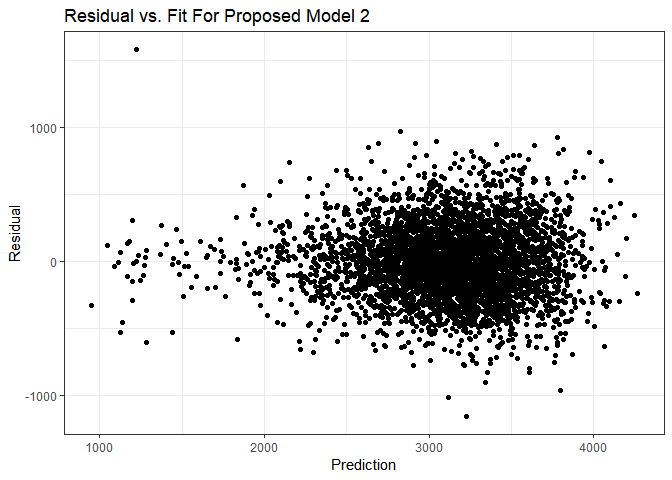
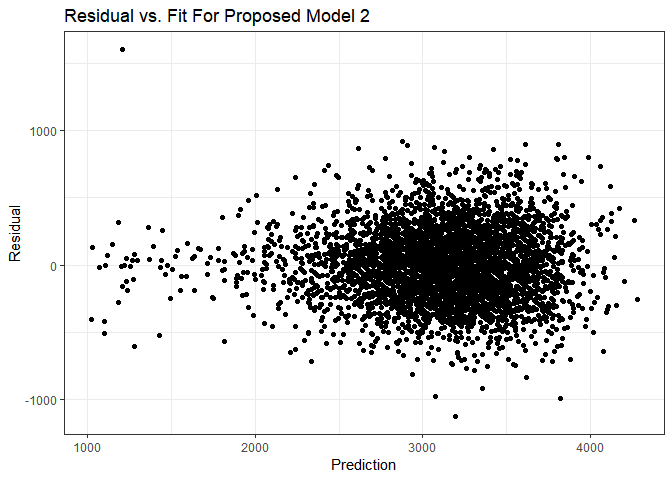
minor text change, change some numeric variables to factor variables.

diff --git a/p8105_hw6_st3117.md b/p8105_hw6_st3117.md
@@ -56,6 +56,8 @@ baltimore_logistic %>%
 |------:|--------:|------:|---------:|----------:|
 |  -0.82|        0|  0.441|     0.313|       0.62|
 
+The odds of solving homicides in Baltimore among non-white is 0.441 times the odds comparing to white. The true odds ratio lies between 0.313 and 0.62.
+
 Problem 1\_4 Compute Odds Ratio and 95% CI for solving homicides in All Cities
 ------------------------------------------------------------------------------
 
@@ -124,6 +126,13 @@ Problem 2\_1 Load 'Children Birth Weight' Data
 children = 
   read_csv(file = "./data/birthweight.csv")
 
+children =
+  children %>% 
+  mutate(babysex = as.factor(babysex),
+         frace = as.factor(frace),
+         malform = as.factor(malform),
+         mrace = as.factor(mrace))
+
 skimr::skim(children)
 ```
 
@@ -131,43 +140,47 @@ skimr::skim(children)
     ##  n obs: 4342 
     ##  n variables: 20 
     ## 
+    ## -- Variable type:factor -----------------------------------------------------------------------------------------------
+    ##  variable missing complete    n n_unique                      top_counts
+    ##   babysex       0     4342 4342        2         1: 2230, 2: 2112, NA: 0
+    ##     frace       0     4342 4342        5 1: 2123, 2: 1911, 4: 248, 3: 46
+    ##   malform       0     4342 4342        2           0: 4327, 1: 15, NA: 0
+    ##     mrace       0     4342 4342        4 1: 2147, 2: 1909, 4: 243, 3: 43
+    ##  ordered
+    ##    FALSE
+    ##    FALSE
+    ##    FALSE
+    ##    FALSE
+    ## 
     ## -- Variable type:integer ----------------------------------------------------------------------------------------------
-    ##  variable missing complete    n      mean      sd  p0  p25    p50  p75
-    ##   babysex       0     4342 4342    1.49     0.5     1    1    1      2
-    ##     bhead       0     4342 4342   33.65     1.62   21   33   34     35
-    ##   blength       0     4342 4342   49.75     2.72   20   48   50     51
-    ##       bwt       0     4342 4342 3114.4    512.15  595 2807 3132.5 3459
-    ##     delwt       0     4342 4342  145.57    22.21   86  131  143    157
-    ##   fincome       0     4342 4342   44.11    25.98    0   25   35     65
-    ##     frace       0     4342 4342    1.66     0.85    1    1    2      2
-    ##   malform       0     4342 4342    0.0035   0.059   0    0    0      0
-    ##  menarche       0     4342 4342   12.51     1.48    0   12   12     13
-    ##   mheight       0     4342 4342   63.49     2.66   48   62   63     65
-    ##    momage       0     4342 4342   20.3      3.88   12   18   20     22
-    ##     mrace       0     4342 4342    1.63     0.77    1    1    2      2
-    ##    parity       0     4342 4342    0.0023   0.1     0    0    0      0
-    ##   pnumlbw       0     4342 4342    0        0       0    0    0      0
-    ##   pnumsga       0     4342 4342    0        0       0    0    0      0
-    ##      ppwt       0     4342 4342  123.49    20.16   70  110  120    134
-    ##    wtgain       0     4342 4342   22.08    10.94  -46   15   22     28
-    ##  p100     hist
-    ##     2 <U+2587><U+2581><U+2581><U+2581><U+2581><U+2581><U+2581><U+2587>
-    ##    41 <U+2581><U+2581><U+2581><U+2581><U+2585><U+2587><U+2581><U+2581>
-    ##    63 <U+2581><U+2581><U+2581><U+2581><U+2581><U+2587><U+2581><U+2581>
-    ##  4791 <U+2581><U+2581><U+2581><U+2583><U+2587><U+2587><U+2582><U+2581>
-    ##   334 <U+2581><U+2587><U+2585><U+2581><U+2581><U+2581><U+2581><U+2581>
-    ##    96 <U+2581><U+2582><U+2587><U+2582><U+2582><U+2582><U+2581><U+2583>
-    ##     8 <U+2587><U+2587><U+2581><U+2581><U+2581><U+2581><U+2581><U+2581>
-    ##     1 <U+2587><U+2581><U+2581><U+2581><U+2581><U+2581><U+2581><U+2581>
-    ##    19 <U+2581><U+2581><U+2581><U+2581><U+2582><U+2587><U+2581><U+2581>
-    ##    77 <U+2581><U+2581><U+2581><U+2585><U+2587><U+2582><U+2581><U+2581>
-    ##    44 <U+2582><U+2587><U+2585><U+2582><U+2581><U+2581><U+2581><U+2581>
-    ##     4 <U+2587><U+2581><U+2587><U+2581><U+2581><U+2581><U+2581><U+2581>
-    ##     6 <U+2587><U+2581><U+2581><U+2581><U+2581><U+2581><U+2581><U+2581>
-    ##     0 <U+2581><U+2581><U+2581><U+2587><U+2581><U+2581><U+2581><U+2581>
-    ##     0 <U+2581><U+2581><U+2581><U+2587><U+2581><U+2581><U+2581><U+2581>
-    ##   287 <U+2581><U+2587><U+2586><U+2581><U+2581><U+2581><U+2581><U+2581>
-    ##    89 <U+2581><U+2581><U+2581><U+2587><U+2587><U+2581><U+2581><U+2581>
+    ##  variable missing complete    n      mean     sd  p0  p25    p50  p75 p100
+    ##     bhead       0     4342 4342   33.65     1.62  21   33   34     35   41
+    ##   blength       0     4342 4342   49.75     2.72  20   48   50     51   63
+    ##       bwt       0     4342 4342 3114.4    512.15 595 2807 3132.5 3459 4791
+    ##     delwt       0     4342 4342  145.57    22.21  86  131  143    157  334
+    ##   fincome       0     4342 4342   44.11    25.98   0   25   35     65   96
+    ##  menarche       0     4342 4342   12.51     1.48   0   12   12     13   19
+    ##   mheight       0     4342 4342   63.49     2.66  48   62   63     65   77
+    ##    momage       0     4342 4342   20.3      3.88  12   18   20     22   44
+    ##    parity       0     4342 4342    0.0023   0.1    0    0    0      0    6
+    ##   pnumlbw       0     4342 4342    0        0      0    0    0      0    0
+    ##   pnumsga       0     4342 4342    0        0      0    0    0      0    0
+    ##      ppwt       0     4342 4342  123.49    20.16  70  110  120    134  287
+    ##    wtgain       0     4342 4342   22.08    10.94 -46   15   22     28   89
+    ##      hist
+    ##  <U+2581><U+2581><U+2581><U+2581><U+2585><U+2587><U+2581><U+2581>
+    ##  <U+2581><U+2581><U+2581><U+2581><U+2581><U+2587><U+2581><U+2581>
+    ##  <U+2581><U+2581><U+2581><U+2583><U+2587><U+2587><U+2582><U+2581>
+    ##  <U+2581><U+2587><U+2585><U+2581><U+2581><U+2581><U+2581><U+2581>
+    ##  <U+2581><U+2582><U+2587><U+2582><U+2582><U+2582><U+2581><U+2583>
+    ##  <U+2581><U+2581><U+2581><U+2581><U+2582><U+2587><U+2581><U+2581>
+    ##  <U+2581><U+2581><U+2581><U+2585><U+2587><U+2582><U+2581><U+2581>
+    ##  <U+2582><U+2587><U+2585><U+2582><U+2581><U+2581><U+2581><U+2581>
+    ##  <U+2587><U+2581><U+2581><U+2581><U+2581><U+2581><U+2581><U+2581>
+    ##  <U+2581><U+2581><U+2581><U+2587><U+2581><U+2581><U+2581><U+2581>
+    ##  <U+2581><U+2581><U+2581><U+2587><U+2581><U+2581><U+2581><U+2581>
+    ##  <U+2581><U+2587><U+2586><U+2581><U+2581><U+2581><U+2581><U+2581>
+    ##  <U+2581><U+2581><U+2581><U+2587><U+2587><U+2581><U+2581><U+2581>
     ## 
     ## -- Variable type:numeric ----------------------------------------------------------------------------------------------
     ##  variable missing complete    n  mean   sd    p0   p25   p50   p75 p100
@@ -200,27 +213,27 @@ stepwise %>%
 
 | term        |   estimate|  std.error|  statistic|  p.value|
 |:------------|----------:|----------:|----------:|--------:|
-| (Intercept) |  -5901.447|    109.469|    -53.910|    0.000|
-| bhead       |    134.474|      3.468|     38.770|    0.000|
-| blength     |     76.389|      2.037|     37.492|    0.000|
-| mrace       |    -53.699|      6.007|     -8.939|    0.000|
-| delwt       |      3.957|      0.398|      9.930|    0.000|
-| gaweeks     |     12.029|      1.480|      8.126|    0.000|
-| smoken      |     -3.716|      0.581|     -6.391|    0.000|
-| ppbmi       |     -7.771|      2.618|     -2.968|    0.003|
-| fincome     |      0.662|      0.177|      3.733|    0.000|
-| babysex     |     32.296|      8.546|      3.779|    0.000|
-| momage      |      3.456|      1.192|      2.899|    0.004|
-| ppwt        |     -1.482|      0.579|     -2.560|    0.010|
-| parity      |     89.640|     40.913|      2.191|    0.029|
-| menarche    |     -4.326|      2.922|     -1.480|    0.139|
+| (Intercept) |  -5683.316|    101.338|    -56.083|    0.000|
+| bhead       |    130.839|      3.447|     37.958|    0.000|
+| blength     |     74.978|      2.019|     37.137|    0.000|
+| mrace2      |   -138.830|      9.908|    -14.012|    0.000|
+| mrace3      |    -76.349|     42.317|     -1.804|    0.071|
+| mrace4      |   -101.778|     19.291|     -5.276|    0.000|
+| delwt       |      4.109|      0.392|     10.478|    0.000|
+| gaweeks     |     11.581|      1.462|      7.920|    0.000|
+| smoken      |     -4.844|      0.586|     -8.272|    0.000|
+| ppbmi       |     -9.222|      2.577|     -3.578|    0.000|
+| babysex2    |     28.557|      8.456|      3.377|    0.001|
+| parity      |     95.895|     40.339|      2.377|    0.017|
+| ppwt        |     -1.068|      0.568|     -1.881|    0.060|
+| fincome     |      0.323|      0.175|      1.849|    0.065|
 
 ``` r
 proposed_model1 = lm(bwt ~ bhead + blength + babysex + delwt + mrace + gaweeks, data = children)
 proposed_model2 = mgcv::gam(bwt ~ s(bhead) + s(blength) + babysex + s(delwt) + mrace +s(gaweeks), data = children)
 ```
 
-Step-wise selection is a data-driven model-building process, by performing it, we got 13 significant variables. By simplily searching the association between birth weight and the 13 variables online, I narrowed it down to 6 variables: baby’s head circumference at birth, baby’s length at birth, baby’s sex, mother’s weight at delivery, mother’s race, and gestational age in weeks.
+Step-wise selection is a data-driven model-building process, by performing it, we got 13 significant variables (including dummy variables). By simplily searching the association between birth weight and the 13 variables online, I narrowed it down to 6 variables: baby’s head circumference at birth, baby’s length at birth, baby’s sex, mother’s weight at delivery, mother’s race, and gestational age in weeks.
 
 At first, I just propsed the linear model "proposed\_model1", however, since the residual vs. fit below showed some violation of our linear assumption, I decided to include a non-linear "proposed\_model2" with the same 6 variables.
 
@@ -312,4 +325,4 @@ cv_children_test %>%
 
 ![](p8105_hw6_st3117_files/figure-markdown_github/p2_6-1.png)
 
-Based on the violin plot, our proposed model 2 has the smallest RMSE, thus I'll choose this model among the 4 models.
+Based on the violin plot, both proposed models are significantly better than the two provided models. Due to the fact that our proposed model 2 has better 'residual vs. fit', as well as having the smallest RMSE, I'll choose this model among the 4 models.
